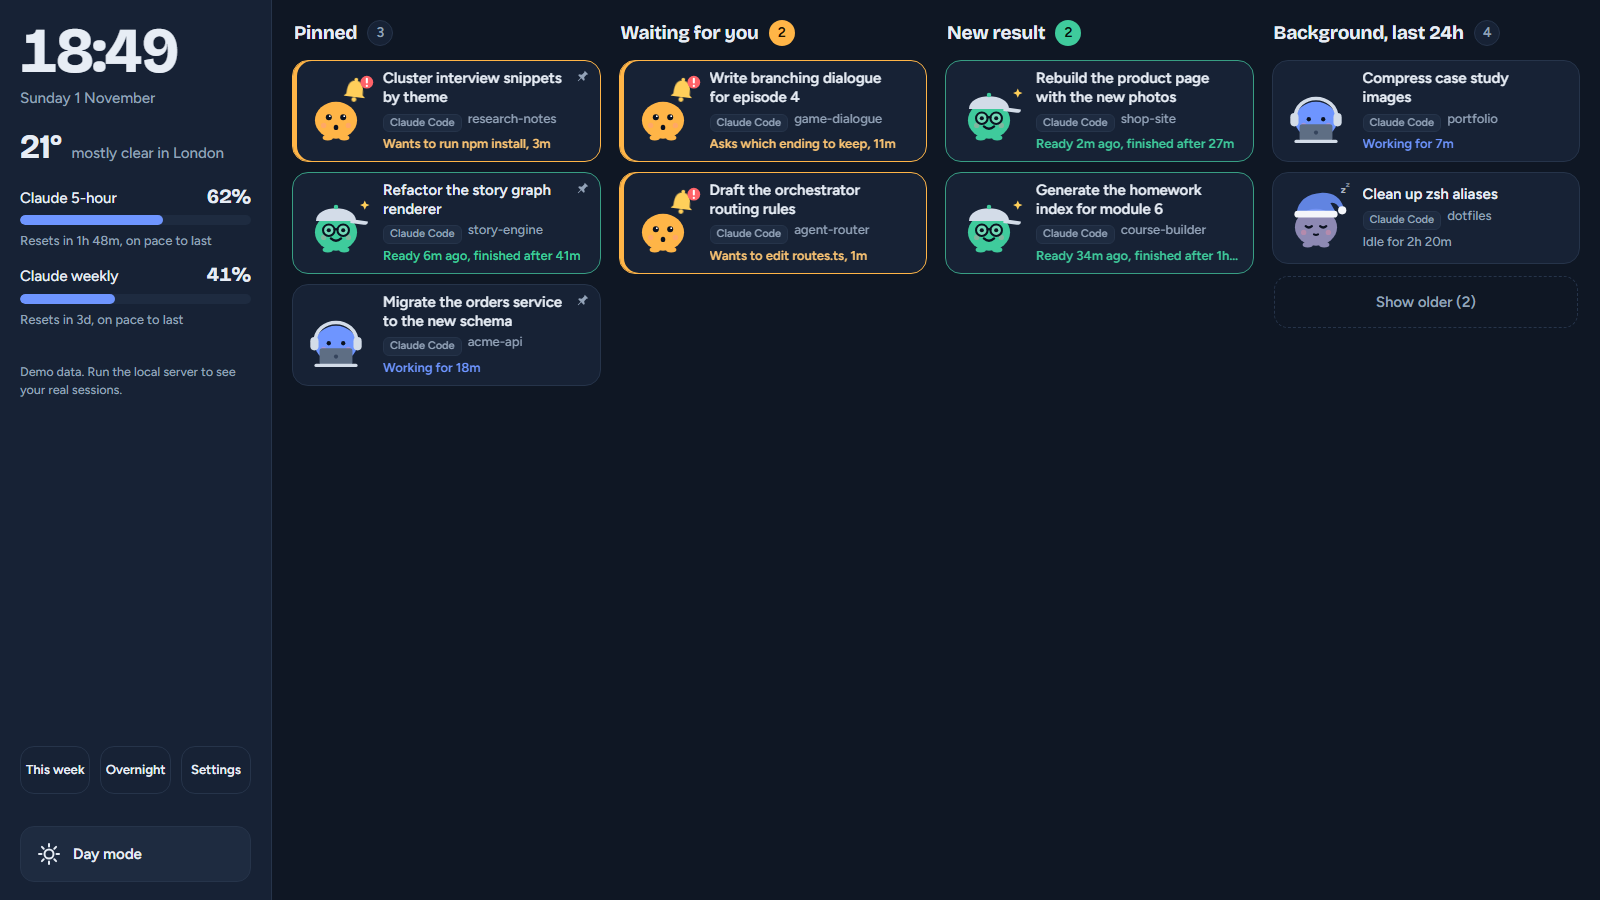
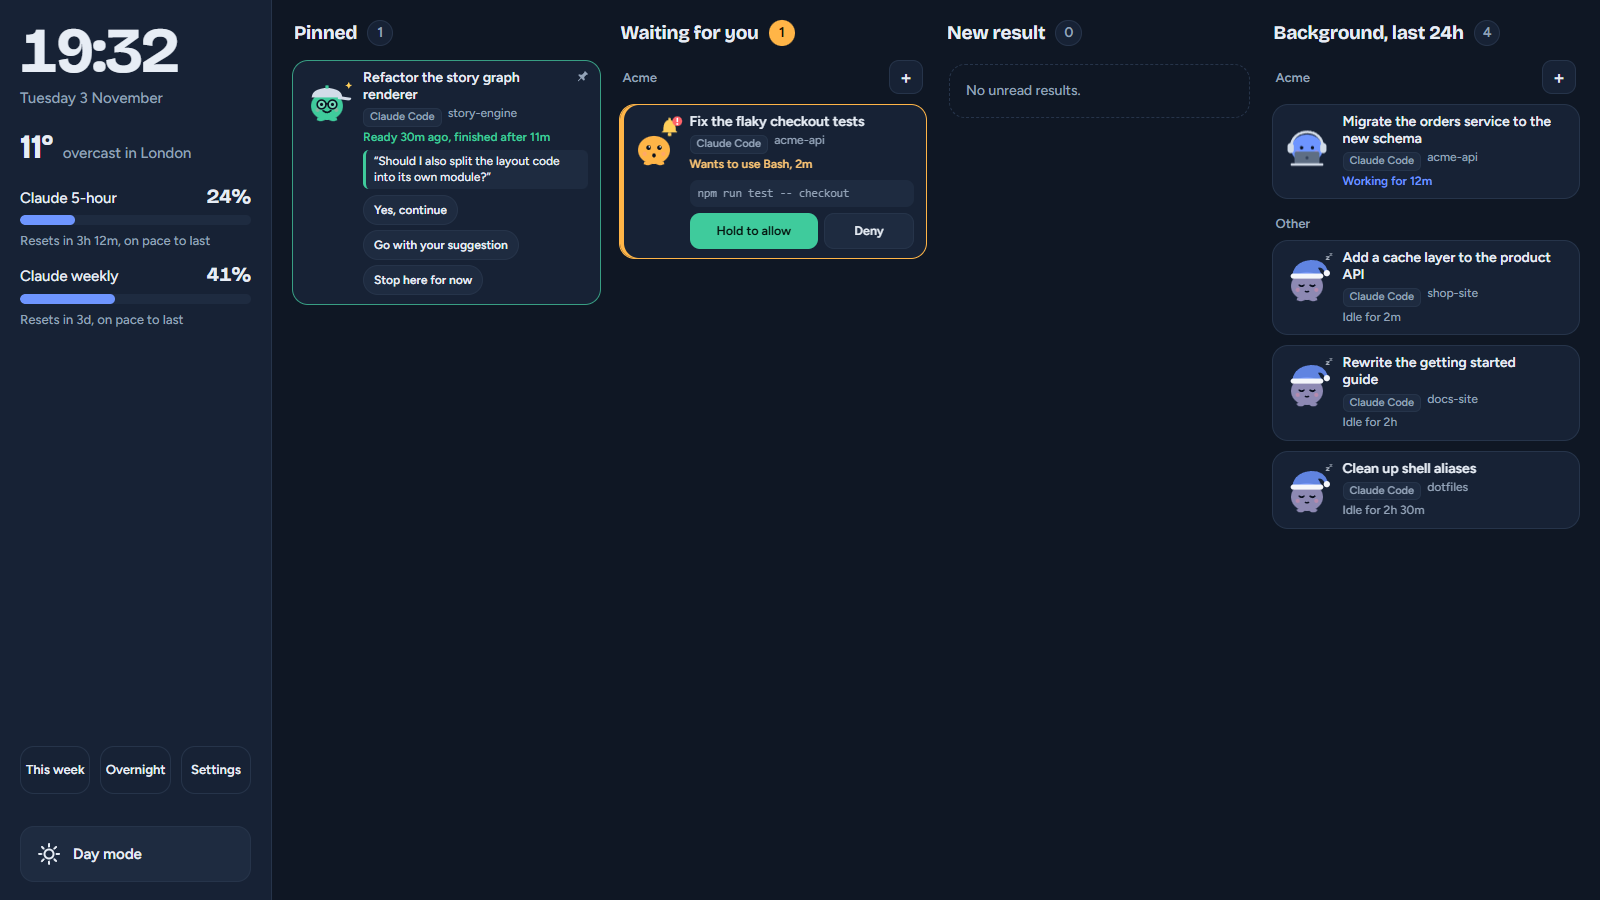
Fresh screenshots and demo with the current cards; recorder can take screenshots

diff --git a/tools/record-demo.js b/tools/record-demo.js
@@ -1,7 +1,8 @@
 #!/usr/bin/env node
 // LLM Deck: records docs/demo.gif from a throwaway demo deck with neutral example sessions.
 // Needs Node 22+ and Microsoft Edge or Google Chrome. Nothing on your real setup is read or changed.
-// Usage: node tools/record-demo.js [output.gif]
+// Usage: node tools/record-demo.js [output.gif]      the animation (docs/demo.gif)
+//        node tools/record-demo.js --screens         dark and light screenshots (docs/screenshot-*.png)
 const fs = require('fs');
 const os = require('os');
 const path = require('path');
@@ -10,7 +11,8 @@ const { spawn } = require('child_process');
 const { readPng, writeGif } = require('./gif.js');
 
 const ROOT = path.join(__dirname, '..');
-const OUT = path.resolve(process.argv[2] || path.join(ROOT, 'docs', 'demo.gif'));
+const ARGS = process.argv.slice(2), SCREENS = ARGS.includes('--screens');
+const OUT = path.resolve(ARGS.find(a => !a.startsWith('--')) || path.join(ROOT, 'docs', 'demo.gif'));
 const W = 1280, H = 720, SCALE = 0.75, FPS = 8;
 const net = require('net');
 const freePort = () => new Promise(r => { const s = net.createServer().listen(0, '127.0.0.1', () => { const p = s.address().port; s.close(() => r(p)); }); });
@@ -98,6 +100,19 @@ await (async () => {
     await sleep(1500);
     await js("localStorage.setItem('deck-theme','dark'); location.reload()");
     await sleep(3500);
+
+    if (SCREENS) { // full-size stills in both themes
+      await cmd('Emulation.setDeviceMetricsOverride', { width: 1600, height: 900, deviceScaleFactor: 1, mobile: false });
+      for (const theme of ['dark', 'light']) {
+        await js("localStorage.setItem('deck-theme','" + theme + "'); location.reload()");
+        await sleep(3500);
+        const shot = await cmd('Page.captureScreenshot', { format: 'png' });
+        const file = path.join(ROOT, 'docs', 'screenshot-' + theme + '.png');
+        fs.writeFileSync(file, Buffer.from(shot.data, 'base64'));
+        console.log('Saved ' + file);
+      }
+      return finish(0);
+    }
 
     const frames = [];
     const shoot = async () => { const r = await cmd('Page.captureScreenshot', { format: 'png', clip: { x: 0, y: 0, width: W, height: H, scale: SCALE } }); frames.push({ ...readPng(Buffer.from(r.data, 'base64')), delay: 1000 / FPS }); };

diff --git a/CONTRIBUTING.md b/CONTRIBUTING.md
@@ -43,7 +43,7 @@ change on your real setup, run `node install.js` without them and then the self-
 
 ## Tools
 
-- `node tools/record-demo.js` records `docs/demo.gif` from a throwaway demo deck with neutral example sessions. It needs
+- `node tools/record-demo.js` records `docs/demo.gif`, and `--screens` saves the dark and light screenshots, both from a throwaway demo deck with neutral example sessions. It needs
   Edge or Chrome and never reads your real setup.
 - `bash tools/mac-ui-probe.sh ChatGPT` lists how a macOS app exposes its window to accessibility tools. It only reads
   what's on screen and saves the result to your Desktop, to help add chat support for that app.
